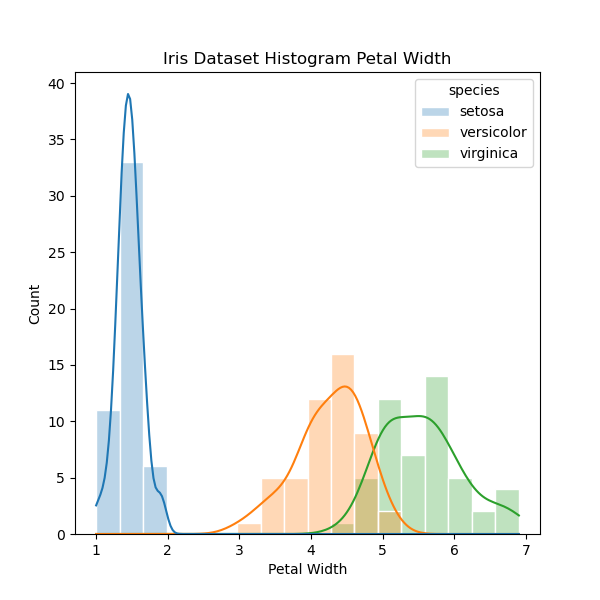
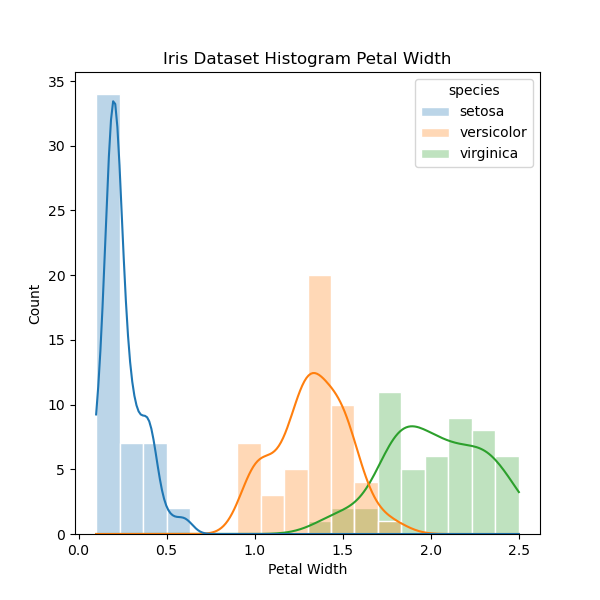
Update and test images and plots on git hub

diff --git a/plots.py b/plots.py
@@ -52,7 +52,7 @@ def facetgrid2(df):
     g.set_titles("{col_name}")
     plt.subplots_adjust(top=0.85) 
     plt.suptitle("Iris Dataset Facet Grid Petal Length  vs. Petal Width ", fontsize=18)
-    plt.savefig('Facet Grid Scatter plot of Petal Length vs Petal Width', bbox_inches='tight')
+    plt.savefig('Facet Grid  of Petal Length vs Petal Width', bbox_inches='tight')
     plt.show()
 
 facetgrid2(df)  
@@ -105,7 +105,7 @@ histogram3(df)
 
 def histogram4(df):
     plt.figure(figsize=(6, 6))
-    sns.histplot(df, x='petal_length', hue="species", edgecolor = "white", multiple="layer", kde=True, bins=18, alpha=0.3)
+    sns.histplot(df, x='petal_width', hue="species", edgecolor = "white", multiple="layer", kde=True, bins=18, alpha=0.3)
     plt.title('Iris Dataset Histogram Petal Width')
     plt.legend
     plt.xlabel('Petal Width')

diff --git a/README.md b/README.md
@@ -60,11 +60,12 @@ It generates a number of tables and graphs that I use to analyse the data set.
 * Saves a table of the describe for import to this Readme.  
 * Saves a table of the missing values for import to this Readme.  
 
-## Discussion
 
-The script is run on Python. It is uploaded from a CSV file. First the data is checked for completeness and suitable for analysing.
+
 
 ### Preprocessing 
+
+The script is run on Python. It is uploaded from a CSV file. First the data is checked for completeness and suitable for analysing.
 
 We first look at the data types, it shows that the counts of the different species are numerical and species are treated as objects. A count of the values shows that there are 50 of each species.
 
@@ -75,6 +76,45 @@ This table describes the data, it shows that there are 150 samples counted, it s
 The data was tested for missing values and this table shows there are no missing values, it is a clean set suitable for analysis.  
 
 ![alt text](<Missing values Table.png>)
+
+### Discussion
+
+*Plot 1 - Box plot*
+
+![alt text](<Box Plot of Iris Dataset.png>)
+
+Box plots show the median, quartile and potential outliers. The plot shows that the distribution varies more significantly on the petal length and petal width. Sepal length and sepal width are shorter in their variation but the sepal length is the longest in length of the four variables. There are outliers mainly on the sepal width.
+
+The histograms are examples of an univariate analysis where we look at the each one of the variables individually.
+
+*Plot 2 - Histogram Sepal Length*
+
+![alt text](<Histogram Sepal Length.png>)
+
+The histogram of the sepal length shows there is an overlap on all the species with setosa having the shorter length and virginica having the longer length.
+
+*Plot 3 - Histogram Sepal Width*
+
+![alt text](<Histogram Sepal Width.png>)
+
+The histogram of the sepal width shows an overlap on all the species with setosa having the longer length up to 4.4cm, versicolor mainly the shortest between 2.0cm and 3.5cm and virignica somewhere in between.
+
+*Plot 4 - Histogram Petal Length*
+
+![alt text](<Histogram Petal Length.png>)
+
+The histogram of the petal length shows less of an overlap between the species. The setosa petals are the shortest between 1cm and 2cm, versicolor range between 3cm and 5.3cm and virginica are the longest between 4.3cm and 7cm. So, it is easier to identify and separate the three species by using petal length.
+
+
+*Plot 5 - Histogram Petal Width*
+
+![alt text](<Histogram Petal Width.png>)
+
+The histogram of the petal width shows that setosa is the shortest in cm under 0.5cm, versicolor lies between 1cm and 1.8cm and virginica is between approximately 1.4cm and 2.5cm. Again is it easier to identify the three species by petal length and  petal width rather than the sepal length and sepal width where is is more of an overlap between the three species.
+
+
+
+
 
 
 
